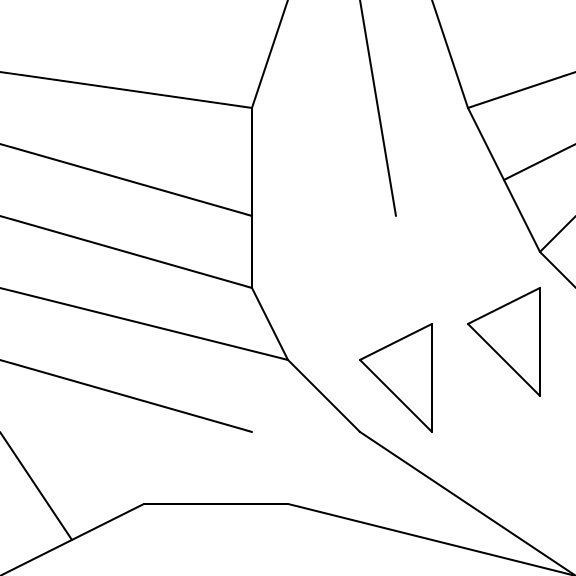
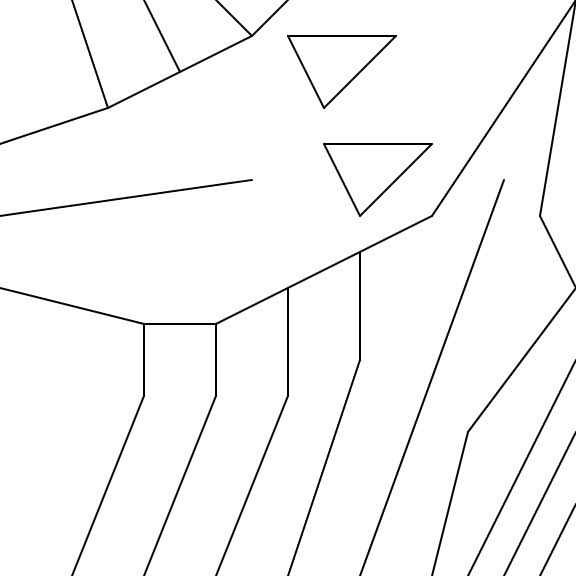
Update pkgdown site.

diff --git a/docs/articles/1982_funcgeo.html b/docs/articles/1982_funcgeo.html
@@ -41,7 +41,7 @@
       <h1>Functional Geometry (1982)</h1>
                         <h4 class="author">Matthew Henderson</h4>
             
-            <h4 class="date">2016-11-08</h4>
+            <h4 class="date">2017-01-22</h4>
           </div>
 
     
@@ -65,59 +65,133 @@ Figure 1
 Figure 7
 </p>
 </div>
+<div class="sourceCode"><pre class="sourceCode r"><code class="sourceCode r"><span class="kw">plot</span>(<span class="kw"><a href="../reference/beside.html">beside</a></span>(man, man, <span class="dt">m =</span> <span class="dv">1</span>, <span class="dt">n =</span> <span class="dv">2</span>))</code></pre></div>
+<div class="figure">
+<img src="1982_funcgeo_files/figure-html/unnamed-chunk-3-1.png" alt="Figure 8" width="288"><p class="caption">
+Figure 8
+</p>
+</div>
+<div class="sourceCode"><pre class="sourceCode r"><code class="sourceCode r"><span class="kw">plot</span>(<span class="kw"><a href="../reference/beside.html">beside</a></span>(man, <span class="kw"><a href="../reference/rot.html">rot</a></span>(man), <span class="dt">m =</span> <span class="dv">1</span>, <span class="dt">n =</span> <span class="dv">2</span>))</code></pre></div>
+<div class="figure">
+<img src="1982_funcgeo_files/figure-html/unnamed-chunk-4-1.png" alt="Figure 8.5" width="288"><p class="caption">
+Figure 8.5
+</p>
+</div>
 <div class="sourceCode"><pre class="sourceCode r"><code class="sourceCode r"><span class="kw">plot</span>(<span class="kw"><a href="../reference/above.html">above</a></span>(man, man))</code></pre></div>
-<p><img src="1982_funcgeo_files/figure-html/unnamed-chunk-3-1.png" width="288"></p>
+<p><img src="1982_funcgeo_files/figure-html/unnamed-chunk-5-1.png" width="288"></p>
 <div class="sourceCode"><pre class="sourceCode r"><code class="sourceCode r"><span class="kw">plot</span>(<span class="kw"><a href="../reference/rot.html">rot</a></span>(man))</code></pre></div>
 <div class="figure">
-<img src="1982_funcgeo_files/figure-html/unnamed-chunk-4-1.png" alt="Figure 15" width="288"><p class="caption">
+<img src="1982_funcgeo_files/figure-html/unnamed-chunk-6-1.png" alt="Figure 15" width="288"><p class="caption">
 Figure 15
 </p>
 </div>
 <div class="sourceCode"><pre class="sourceCode r"><code class="sourceCode r"><span class="kw">plot</span>(<span class="kw"><a href="../reference/quartet.html">quartet</a></span>(man, man, man, man))</code></pre></div>
-<p><img src="1982_funcgeo_files/figure-html/unnamed-chunk-5-1.png" width="288"></p>
+<p><img src="1982_funcgeo_files/figure-html/unnamed-chunk-7-1.png" width="288"></p>
 <div class="sourceCode"><pre class="sourceCode r"><code class="sourceCode r"><span class="kw">plot</span>(<span class="kw"><a href="../reference/cycle.html">cycle</a></span>(man))</code></pre></div>
-<p><img src="1982_funcgeo_files/figure-html/unnamed-chunk-6-1.png" width="288"></p>
+<p><img src="1982_funcgeo_files/figure-html/unnamed-chunk-8-1.png" width="288"></p>
 <div class="sourceCode"><pre class="sourceCode r"><code class="sourceCode r"><span class="kw">plot</span>(fish_p)</code></pre></div>
 <div class="figure">
-<img src="1982_funcgeo_files/figure-html/unnamed-chunk-7-1.png" alt="Figure 18" width="288"><p class="caption">
+<img src="1982_funcgeo_files/figure-html/unnamed-chunk-9-1.png" alt="Figure 18" width="288"><p class="caption">
 Figure 18
 </p>
 </div>
 <div class="sourceCode"><pre class="sourceCode r"><code class="sourceCode r"><span class="kw">plot</span>(fish_q)</code></pre></div>
 <div class="figure">
-<img src="1982_funcgeo_files/figure-html/unnamed-chunk-8-1.png" alt="Figure 19" width="288"><p class="caption">
+<img src="1982_funcgeo_files/figure-html/unnamed-chunk-10-1.png" alt="Figure 19" width="288"><p class="caption">
 Figure 19
 </p>
 </div>
 <div class="sourceCode"><pre class="sourceCode r"><code class="sourceCode r"><span class="kw">plot</span>(fish_r)</code></pre></div>
 <div class="figure">
-<img src="1982_funcgeo_files/figure-html/unnamed-chunk-9-1.png" alt="Figure 20" width="288"><p class="caption">
+<img src="1982_funcgeo_files/figure-html/unnamed-chunk-11-1.png" alt="Figure 20" width="288"><p class="caption">
 Figure 20
 </p>
 </div>
 <div class="sourceCode"><pre class="sourceCode r"><code class="sourceCode r"><span class="kw">plot</span>(fish_s)</code></pre></div>
 <div class="figure">
-<img src="1982_funcgeo_files/figure-html/unnamed-chunk-10-1.png" alt="Figure 21" width="288"><p class="caption">
+<img src="1982_funcgeo_files/figure-html/unnamed-chunk-12-1.png" alt="Figure 21" width="288"><p class="caption">
 Figure 21
 </p>
 </div>
-<div class="sourceCode"><pre class="sourceCode r"><code class="sourceCode r">t =<span class="st"> </span><span class="kw"><a href="../reference/quartet.html">quartet</a></span>(fish_p, fish_q, fish_r, fish_s)
+<div class="sourceCode"><pre class="sourceCode r"><code class="sourceCode r">t &lt;-<span class="st"> </span><span class="kw"><a href="../reference/quartet.html">quartet</a></span>(fish_p, fish_q, fish_r, fish_s)
 <span class="kw">plot</span>(t)</code></pre></div>
 <div class="figure">
-<img src="1982_funcgeo_files/figure-html/unnamed-chunk-11-1.png" alt="Figure 22: t = quartet(p, q, r, s)" width="288"><p class="caption">
+<img src="1982_funcgeo_files/figure-html/unnamed-chunk-13-1.png" alt="Figure 22: t = quartet(p, q, r, s)" width="288"><p class="caption">
 Figure 22: t = quartet(p, q, r, s)
 </p>
 </div>
-<div class="sourceCode"><pre class="sourceCode r"><code class="sourceCode r"><span class="kw">plot</span>(<span class="kw"><a href="../reference/cycle.html">cycle</a></span>(<span class="kw"><a href="../reference/rot.html">rot</a></span>(fish_q)))</code></pre></div>
+<div class="sourceCode"><pre class="sourceCode r"><code class="sourceCode r">u &lt;-<span class="st"> </span><span class="kw"><a href="../reference/cycle.html">cycle</a></span>(<span class="kw"><a href="../reference/rot.html">rot</a></span>(fish_q))
+<span class="kw">plot</span>(u)</code></pre></div>
 <div class="figure">
-<img src="1982_funcgeo_files/figure-html/unnamed-chunk-12-1.png" alt="Figure 23: u = cycle(rot(q))" width="288"><p class="caption">
+<img src="1982_funcgeo_files/figure-html/unnamed-chunk-14-1.png" alt="Figure 23: u = cycle(rot(q))" width="288"><p class="caption">
 Figure 23: u = cycle(rot(q))
 </p>
 </div>
 <div class="sourceCode"><pre class="sourceCode r"><code class="sourceCode r"><span class="kw">plot</span>(<span class="kw"><a href="../reference/cycle.html">cycle</a></span>(<span class="kw"><a href="../reference/rot.html">rot</a></span>(t)))</code></pre></div>
 <div class="figure">
-<img src="1982_funcgeo_files/figure-html/unnamed-chunk-13-1.png" alt="Figure 24: u = cycle(rot(t))" width="288"><p class="caption">
+<img src="1982_funcgeo_files/figure-html/unnamed-chunk-15-1.png" alt="Figure 24: u = cycle(rot(t))" width="288"><p class="caption">
 Figure 24: u = cycle(rot(t))
+</p>
+</div>
+<div class="sourceCode"><pre class="sourceCode r"><code class="sourceCode r">nill &lt;-<span class="st"> </span>grid::<span class="kw">nullGrob</span>()
+side1 &lt;-<span class="st"> </span><span class="kw"><a href="../reference/quartet.html">quartet</a></span>(nill, nill, <span class="kw"><a href="../reference/rot.html">rot</a></span>(t), t)
+<span class="kw">plot</span>(side1)</code></pre></div>
+<div class="figure">
+<img src="1982_funcgeo_files/figure-html/unnamed-chunk-16-1.png" alt="Figure 25: side1" width="288"><p class="caption">
+Figure 25: side1
+</p>
+</div>
+<div class="sourceCode"><pre class="sourceCode r"><code class="sourceCode r">side2 &lt;-<span class="st"> </span><span class="kw"><a href="../reference/quartet.html">quartet</a></span>(side1, side1, <span class="kw"><a href="../reference/rot.html">rot</a></span>(t), t)
+<span class="kw">plot</span>(side2)</code></pre></div>
+<div class="figure">
+<img src="1982_funcgeo_files/figure-html/unnamed-chunk-17-1.png" alt="Figure 26: side2" width="288"><p class="caption">
+Figure 26: side2
+</p>
+</div>
+<div class="sourceCode"><pre class="sourceCode r"><code class="sourceCode r">corner1 &lt;-<span class="st"> </span><span class="kw"><a href="../reference/quartet.html">quartet</a></span>(nill, nill, nill, u)
+<span class="kw">plot</span>(corner1)</code></pre></div>
+<div class="figure">
+<img src="1982_funcgeo_files/figure-html/unnamed-chunk-18-1.png" alt="Figure 27: corner1" width="288"><p class="caption">
+Figure 27: corner1
+</p>
+</div>
+<div class="sourceCode"><pre class="sourceCode r"><code class="sourceCode r">corner2 &lt;-<span class="st"> </span><span class="kw"><a href="../reference/quartet.html">quartet</a></span>(corner1, side1, <span class="kw"><a href="../reference/rot.html">rot</a></span>(side1), u)
+<span class="kw">plot</span>(corner2)</code></pre></div>
+<div class="figure">
+<img src="1982_funcgeo_files/figure-html/unnamed-chunk-19-1.png" alt="Figure 28: corner2" width="288"><p class="caption">
+Figure 28: corner2
+</p>
+</div>
+<div class="sourceCode"><pre class="sourceCode r"><code class="sourceCode r">pseudocorner &lt;-<span class="st"> </span><span class="kw"><a href="../reference/quartet.html">quartet</a></span>(corner2, side2, <span class="kw"><a href="../reference/rot.html">rot</a></span>(side2), <span class="kw"><a href="../reference/rot.html">rot</a></span>(t))
+<span class="kw">plot</span>(pseudocorner)</code></pre></div>
+<div class="figure">
+<img src="1982_funcgeo_files/figure-html/unnamed-chunk-20-1.png" alt="Figure 29: pseudocorner" width="288"><p class="caption">
+Figure 29: pseudocorner
+</p>
+</div>
+<div class="sourceCode"><pre class="sourceCode r"><code class="sourceCode r">pseudolimit &lt;-<span class="st"> </span><span class="kw"><a href="../reference/cycle.html">cycle</a></span>(pseudocorner)
+<span class="kw">plot</span>(pseudolimit)</code></pre></div>
+<div class="figure">
+<img src="1982_funcgeo_files/figure-html/unnamed-chunk-21-1.png" alt="Figure 30: pseudolimit" width="768"><p class="caption">
+Figure 30: pseudolimit
+</p>
+</div>
+<div class="sourceCode"><pre class="sourceCode r"><code class="sourceCode r">corner &lt;-<span class="st"> </span><span class="kw"><a href="../reference/nonet.html">nonet</a></span>(
+  corner2, side2, side2,
+  <span class="kw"><a href="../reference/rot.html">rot</a></span>(side2), u, <span class="kw"><a href="../reference/rot.html">rot</a></span>(t),
+  <span class="kw"><a href="../reference/rot.html">rot</a></span>(side2), <span class="kw"><a href="../reference/rot.html">rot</a></span>(t), <span class="kw"><a href="../reference/rot.html">rot</a></span>(fish_q)
+)
+<span class="kw">plot</span>(corner)</code></pre></div>
+<div class="figure">
+<img src="1982_funcgeo_files/figure-html/unnamed-chunk-22-1.png" alt="Figure 31: corner" width="288"><p class="caption">
+Figure 31: corner
+</p>
+</div>
+<div class="sourceCode"><pre class="sourceCode r"><code class="sourceCode r">squarelimit &lt;-<span class="st"> </span><span class="kw"><a href="../reference/cycle.html">cycle</a></span>(corner)
+<span class="kw">plot</span>(squarelimit)</code></pre></div>
+<div class="figure">
+<img src="1982_funcgeo_files/figure-html/unnamed-chunk-23-1.png" alt="Figure 32: Squarelimit" width="768"><p class="caption">
+Figure 32: Squarelimit
 </p>
 </div>
 <p>footnotes<a href="#fn1" class="footnoteRef" id="fnref1"><sup>1</sup></a></p>

diff --git a/docs/reference/nonet.html b/docs/reference/nonet.html
@@ -6,7 +6,7 @@
 <meta http-equiv="X-UA-Compatible" content="IE=edge">
 <meta name="viewport" content="width=device-width, initial-scale=1.0">
 
-<title>Function reference • funcgeo</title>
+<title>Nonet — nonet • funcgeo</title>
 
 <!-- jquery -->
 <script src="https://code.jquery.com/jquery-3.1.0.min.js" integrity="sha384-nrOSfDHtoPMzJHjVTdCopGqIqeYETSXhZDFyniQ8ZHcVy08QesyHcnOUpMpqnmWq" crossorigin="anonymous"></script>
@@ -34,7 +34,7 @@
   </head>
 
   <body>
-    <div class="container template-reference-index">
+    <div class="container template-reference-topic">
       <header>
       <div class="navbar navbar-default navbar-fixed-top" role="navigation">
   <div class="container">
@@ -75,85 +75,53 @@
       </header>
 
       <div class="row">
-  <div class="col-md-9">
+  <div class="col-md-9 contents">
     <div class="page-header">
-      <h1>Function reference</h1>
-      <h4>version&nbsp;0.1.0</h4>
+    <h1>Nonet</h1>
     </div>
 
-    <div class="contents">
-      <h2 id="section-all-functions" class="hasAnchor"><a href="#section-all-functions" class="anchor"></a>All functions</h2>
-      <p class="section-desc"></p>
-
-      
-      <p><a href="above.grob.html">Superimpose two grobs, one above the other.</a></p>
-      <ul>
-        <li><code><a href="above.grob.html">above.grob</a></code></li>
-      </ul>
-      
-      <p><a href="above.html">Superimpose two pictures, one above the other.</a></p>
-      <ul>
-        <li><code><a href="above.html">above</a></code></li>
-      </ul>
-      
-      <p><a href="beside.grob.html">Superimpose two grobs side-by-side.</a></p>
-      <ul>
-        <li><code><a href="beside.grob.html">beside.grob</a></code></li>
-      </ul>
-      
-      <p><a href="beside.html">Superimpose two grobs, side-by-side.</a></p>
-      <ul>
-        <li><code><a href="beside.html">beside</a></code></li>
-      </ul>
-      
-      <p><a href="cycle.html">Cycle</a></p>
-      <ul>
-        <li><code><a href="cycle.html">cycle</a></code></li>
-      </ul>
-      
-      <p><a href="flip.grob.html">Flip a grob.</a></p>
-      <ul>
-        <li><code><a href="flip.grob.html">flip.grob</a></code></li>
-      </ul>
-      
-      <p><a href="flip.html">Flip a picture.</a></p>
-      <ul>
-        <li><code><a href="flip.html">flip</a></code></li>
-      </ul>
-      
-      <p><a href="nonet.html">Nonet</a></p>
-      <ul>
-        <li><code><a href="nonet.html">nonet</a></code></li>
-      </ul>
-      
-      <p><a href="plot.picture.html">plot.picture</a></p>
-      <ul>
-        <li><code><a href="plot.picture.html">plot.picture</a></code></li>
-      </ul>
-      
-      <p><a href="quartet.html">Quartet</a></p>
-      <ul>
-        <li><code><a href="quartet.html">quartet</a></code></li>
-      </ul>
-      
-      <p><a href="rot.grob.html">Rotate a grob.</a></p>
-      <ul>
-        <li><code><a href="rot.grob.html">rot.grob</a></code></li>
-      </ul>
-      
-      <p><a href="rot.html">Rotate a picture.</a></p>
-      <ul>
-        <li><code><a href="rot.html">rot</a></code></li>
-      </ul>
     
-    </div>
-  </div>
+    <p>Nonet</p>
+    
 
+    <pre><span class='fu'>nonet</span>(<span class='no'>a</span>, <span class='no'>s</span>, <span class='no'>d</span>, <span class='no'>f</span>, <span class='no'>g</span>, <span class='no'>h</span>, <span class='no'>j</span>, <span class='no'>k</span>, <span class='no'>l</span>)</pre>
+    
+    <h2 class="hasAnchor" id="arguments"><a class="anchor" href="#arguments"></a> Arguments</h2>
+    <dl class="dl-horizontal">
+      <dt>a</dt>
+      <dd>A picture</dd>
+      <dt>s</dt>
+      <dd>Another picture</dd>
+      <dt>d</dt>
+      <dd>Yet another picture</dd>
+      <dt>f</dt>
+      <dd>The last picture</dd>
+      <dt>g</dt>
+      <dd>A picture</dd>
+      <dt>h</dt>
+      <dd>Another picture</dd>
+      <dt>j</dt>
+      <dd>Yet another picture</dd>
+      <dt>k</dt>
+      <dd>The last picture</dd>
+      <dt>l</dt>
+      <dd>The last picture</dd>
+    </dl>
+    
+    <h2 class="hasAnchor" id="value"><a class="anchor" href="#value"></a>Value</h2>
+
+    <p>A grob</p>
+    
+
+  </div>
   <div class="col-md-3 hidden-xs hidden-sm" id="sidebar">
     <h2>Contents</h2>
     <ul class="nav nav-pills nav-stacked">
-      <li><a href="#section-all-functions">All functions</a></li>
-    </ul>
+      <li><a href="#arguments">Arguments</a></li>
+      
+      <li><a href="#value">Value</a></li>
+          </ul>
+
   </div>
 </div>
 

diff --git a/docs/index.html b/docs/index.html
@@ -50,12 +50,12 @@
 -->
 <div id="funcgeo" class="section level1">
 <div class="page-header"><h1 class="hasAnchor"><a href="#funcgeo" class="anchor"> </a>funcgeo</h1></div>
-<p>The goal of funcgeo is to reproduce in R the pictures in the following papers:</p>
-<ul><li><a href="http://users.ecs.soton.ac.uk/peter/funcgeo.pdf" class="uri">http://users.ecs.soton.ac.uk/peter/funcgeo.pdf</a></li>
-<li><a href="http://eprints.soton.ac.uk/257577/1/funcgeo2.pdf" class="uri">http://eprints.soton.ac.uk/257577/1/funcgeo2.pdf</a></li>
+<p>The goal of <strong>funcgeo</strong> is to reproduce, using R, all pictures from the following two papers of Peter Henderson:</p>
+<ul><li><a href="http://users.ecs.soton.ac.uk/peter/funcgeo.pdf">Henderson, P. (1982). <em>Functional Geometry</em>.</a></li>
+<li><a href="http://eprints.soton.ac.uk/257577/1/funcgeo2.pdf">Henderson, P. (2002). <em>Functional Geometry</em>.</a></li>
 </ul><div id="installation" class="section level2">
 <h2 class="hasAnchor"><a href="#installation" class="anchor"> </a>Installation</h2>
-<p>You can install funcgeo from my Drat repository on Github:</p>
+<p>You can install <strong>funcgeo</strong> from my Drat repository on Github:</p>
 <div class="sourceCode"><pre class="sourceCode r"><code class="sourceCode r"><span class="co"># install.packages("drat")</span>
 drat::<span class="kw">addRepo</span>(<span class="st">"MHenderson"</span>)
 <span class="kw">install.packages</span>(<span class="st">"funcgeo"</span>)</code></pre></div>
@@ -70,6 +70,10 @@ drat::<span class="kw">addRepo</span>(<span class="st">"MHenderson"</span>)
 <p><img src="index_files/figure-html/unnamed-chunk-2-1.png" width="288"></p>
 <div class="sourceCode"><pre class="sourceCode r"><code class="sourceCode r"><span class="kw">plot</span>(<span class="kw"><a href="reference/cycle.html">cycle</a></span>(<span class="kw"><a href="reference/rot.html">rot</a></span>(fish_q)))</code></pre></div>
 <p><img src="index_files/figure-html/unnamed-chunk-3-1.png" width="288"></p>
+<p>To save a picture as SVG, use the <code>svg</code> device.</p>
+<div class="sourceCode"><pre class="sourceCode r"><code class="sourceCode r"><span class="kw">svg</span>(<span class="st">"fish.svg"</span>, <span class="dt">width =</span> <span class="dv">3</span>, <span class="dt">height =</span> <span class="dv">3</span>)
+<span class="kw">plot</span>(<span class="kw"><a href="reference/quartet.html">quartet</a></span>(fish_p, fish_q, fish_r, fish_s))
+<span class="kw">dev.off</span>()</code></pre></div>
 <p>Please note that this project is released with a <a href="CONDUCT.md">Contributor Code of Conduct</a>. By participating in this project you agree to abide by its terms.</p>
 </div>
 </div>
@@ -77,8 +81,8 @@ drat::<span class="kw">addRepo</span>(<span class="st">"MHenderson"</span>)
   </div>
 
   <div class="col-md-3 hidden-xs hidden-sm" id="sidebar">
-    <h2>Links</h2><ul class="list-unstyled"><li>Browse source code at <br><a href="https://%E2%80%8Bgithub.com/%E2%80%8Bmhenderson/%E2%80%8Bfuncgeo">https://&#8203;github.com/&#8203;mhenderson/&#8203;funcgeo</a></li>
-<li>Report a bug at <br><a href="https://%E2%80%8Bgithub.com/%E2%80%8Bmhenderson/%E2%80%8Bfuncgeo/%E2%80%8Bissues">https://&#8203;github.com/&#8203;mhenderson/&#8203;funcgeo/&#8203;issues</a></li>
+    <h2>Links</h2><ul class="list-unstyled"><li>Browse source code at <br><a href="https://github.com/mhenderson/funcgeo">https://&#8203;github.com/&#8203;mhenderson/&#8203;funcgeo</a></li>
+<li>Report a bug at <br><a href="https://github.com/mhenderson/funcgeo/issues">https://&#8203;github.com/&#8203;mhenderson/&#8203;funcgeo/&#8203;issues</a></li>
 </ul><h2>License</h2>
 <p><a href="https://opensource.org/licenses/mit-license.php">MIT</a> + file <a href="LICENSE">LICENSE</a></p>
 <h2>Developers</h2><ul class="list-unstyled"><li>Matthew Henderson <br><small class="roles"> Author, maintainer </small> </li>

diff --git a/docs/reference/quartet.html b/docs/reference/quartet.html
@@ -88,8 +88,14 @@
     
     <h2 class="hasAnchor" id="arguments"><a class="anchor" href="#arguments"></a> Arguments</h2>
     <dl class="dl-horizontal">
-      <dt>g</dt>
-      <dd>grob</dd>
+      <dt>p</dt>
+      <dd>A picture</dd>
+      <dt>q</dt>
+      <dd>Another picture</dd>
+      <dt>r</dt>
+      <dd>Yet another picture</dd>
+      <dt>s</dt>
+      <dd>The last picture</dd>
     </dl>
     
     <h2 class="hasAnchor" id="value"><a class="anchor" href="#value"></a>Value</h2>

diff --git a/docs/pkgdown.css b/docs/pkgdown.css
@@ -91,6 +91,10 @@ code a {
   color: #375f84;
 }
 
+.warning { color: red; }
+.message { font-weight: bolder; }
+.error   { color: red; font-weight: bolder; }
+
 .fl,.number {color:rgb(21,20,181);}
 .fu,.functioncall {color:#264D66 ;}
 .ch,.st,.string {color:#375D81 ;}

diff --git a/docs/articles/2002_funcgeo.html b/docs/articles/2002_funcgeo.html
@@ -41,7 +41,7 @@
       <h1>Functional Geometry (2002)</h1>
                         <h4 class="author">Matthew Henderson</h4>
             
-            <h4 class="date">2016-11-08</h4>
+            <h4 class="date">2017-01-22</h4>
           </div>
 
     
